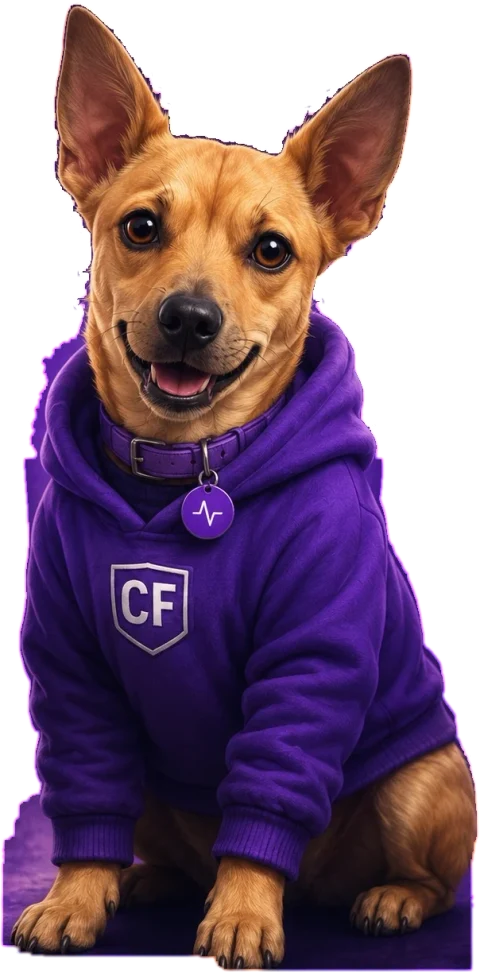
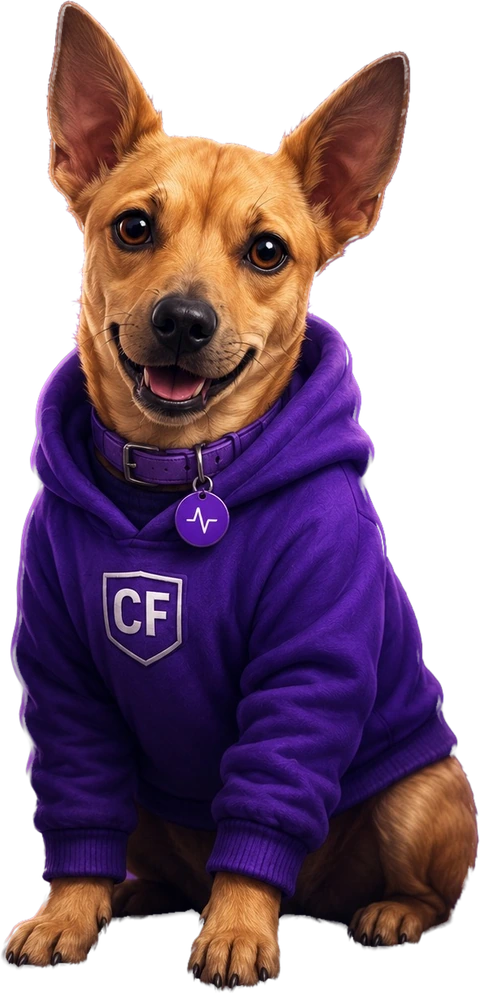
Chase mascot: segmentation-model matte (ISNet) + guided-filter refinement from the untouched original; clean fur edges, no halo/wedges; composed with breathing room and contact shadow; 4K scene master

diff --git a/index.html b/index.html
@@ -23,7 +23,7 @@ main.pt{max-width:980px;margin:0 auto;padding:16px 20px 72px;display:grid;gap:26
  .pcard,.hero{animation:rise .6s cubic-bezier(.32,.72,0,1) both}.pcard.ch{animation-delay:.1s}@keyframes rise{from{opacity:0;transform:translateY(16px)}to{opacity:1;transform:none}}}
 /* Chase: approved navy and purple identity */
 .pcard.ch{background:linear-gradient(160deg,#1a1440 0%,#2a1d6b 58%,#4c33c9 100%);color:#fff;border-color:#4c33c9}.ch .pv{background:radial-gradient(260px 200px at 50% 85%,rgb(124 92 255/55%),transparent 70%)}.ch p{color:#d9d3ff}.ch .cta{background:#fff;color:#2a1d6b}
-.ch h2{color:#fff}.ch .pv{place-items:end center}.ch .pv::before{content:"";position:absolute;inset:auto 0 0 0;height:78%;background:radial-gradient(60% 70% at 50% 82%,rgb(150 110 255/55%),rgb(124 92 255/16%) 55%,transparent 75%)}.ch .pv::after{content:"";position:absolute;bottom:8px;left:50%;width:150px;height:22px;translate:-50% 0;border-radius:50%;background:radial-gradient(closest-side,rgb(0 0 0/55%),transparent)}.ch .dog{position:relative;z-index:1;height:246px;width:auto;margin-bottom:6px;object-fit:contain;filter:drop-shadow(0 14px 20px rgb(6 2 30/50%));transition:transform .4s cubic-bezier(.32,.72,0,1)}.pcard.ch:hover .dog{transform:scale(1.04) rotate(-1.5deg)}
+.ch h2{color:#fff}.ch .pv{place-items:end center}.ch .pv::before{content:"";position:absolute;inset:auto 0 0 0;height:78%;background:radial-gradient(60% 70% at 50% 82%,rgb(150 110 255/55%),rgb(124 92 255/16%) 55%,transparent 75%)}.ch .pv::after{content:"";position:absolute;bottom:20px;left:50%;width:150px;height:22px;translate:-50% 0;border-radius:50%;background:radial-gradient(closest-side,rgb(0 0 0/55%),transparent)}.ch .pv{height:268px}.ch .dog{position:relative;z-index:1;height:228px;width:auto;margin-bottom:26px;object-fit:contain;filter:drop-shadow(0 14px 20px rgb(6 2 30/50%));transition:transform .4s cubic-bezier(.32,.72,0,1)}.pcard.ch:hover .dog{transform:scale(1.04) rotate(-1.5deg)}
 .ch .fb{position:absolute;inset:0;display:grid;place-items:center;font-size:44px;font-weight:800;letter-spacing:-.03em;color:#fff;opacity:.9}.ch .badge{background:rgb(255 255 255/14%);border-color:rgb(255 255 255/30%);color:#fff;justify-self:start}
 .pcard[aria-disabled=true]{opacity:.7;pointer-events:none}
 .note{font-size:13px;color:var(--text-2);text-align:center;margin:0}
@@ -34,7 +34,7 @@ main.pt{max-width:980px;margin:0 auto;padding:16px 20px 72px;display:grid;gap:26
 <section class="hero"><h1 id="h"></h1><p id="i"></p></section>
 <section class="cards">
 <a class="pcard ry" id="ra" href="#"><div class="pv" aria-hidden="true"><div class="ph a"><img id="p1" alt="" width="256" height="538"></div><div class="ph b"><img id="p2" alt="" width="256" height="538"></div></div><div class="pb"><div class="ttl"><img src="ryvano/assets/logo.png" alt="" width="40" height="40"><h2 id="rn"></h2></div><p id="rd"></p><span class="cta"><span id="rt"></span><svg viewBox="0 0 24 24" width="20" height="20" fill="none" stroke="currentColor" stroke-width="2.2" stroke-linecap="round" stroke-linejoin="round" aria-hidden="true"><path d="M5 12h14M13 6l6 6-6 6"/></svg></span></div></a>
-<a class="pcard ch" id="ca" href="#"><div class="pv" aria-hidden="true"><img class="dog" id="dog" src="brand/chase-cutout-480.webp" srcset="brand/chase-cutout-480.webp 480w, brand/chase-cutout-760.webp 760w" sizes="140px" alt="" width="124" height="251" decoding="async"></div><div class="pb"><div class="ttl"><h2 id="cn"></h2></div><p id="cd"></p><span class="badge" id="cs" hidden></span><span class="cta" id="cc"><span id="ct"></span><svg viewBox="0 0 24 24" width="20" height="20" fill="none" stroke="currentColor" stroke-width="2.2" stroke-linecap="round" stroke-linejoin="round" aria-hidden="true"><path d="M5 12h14M13 6l6 6-6 6"/></svg></span></div></a>
+<a class="pcard ch" id="ca" href="#"><div class="pv" aria-hidden="true"><img class="dog" id="dog" src="brand/chase-cutout-480.webp" srcset="brand/chase-cutout-480.webp 480w, brand/chase-cutout-760.webp 760w, brand/chase-cutout-1122.webp 1122w" sizes="130px" alt="" width="110" height="228" decoding="async"></div><div class="pb"><div class="ttl"><h2 id="cn"></h2></div><p id="cd"></p><span class="badge" id="cs" hidden></span><span class="cta" id="cc"><span id="ct"></span><svg viewBox="0 0 24 24" width="20" height="20" fill="none" stroke="currentColor" stroke-width="2.2" stroke-linecap="round" stroke-linejoin="round" aria-hidden="true"><path d="M5 12h14M13 6l6 6-6 6"/></svg></span></div></a>
 </section></main>
 <script src="ryvano/assets/langsel.js?v=4b1e827fce"></script>
 <script>
